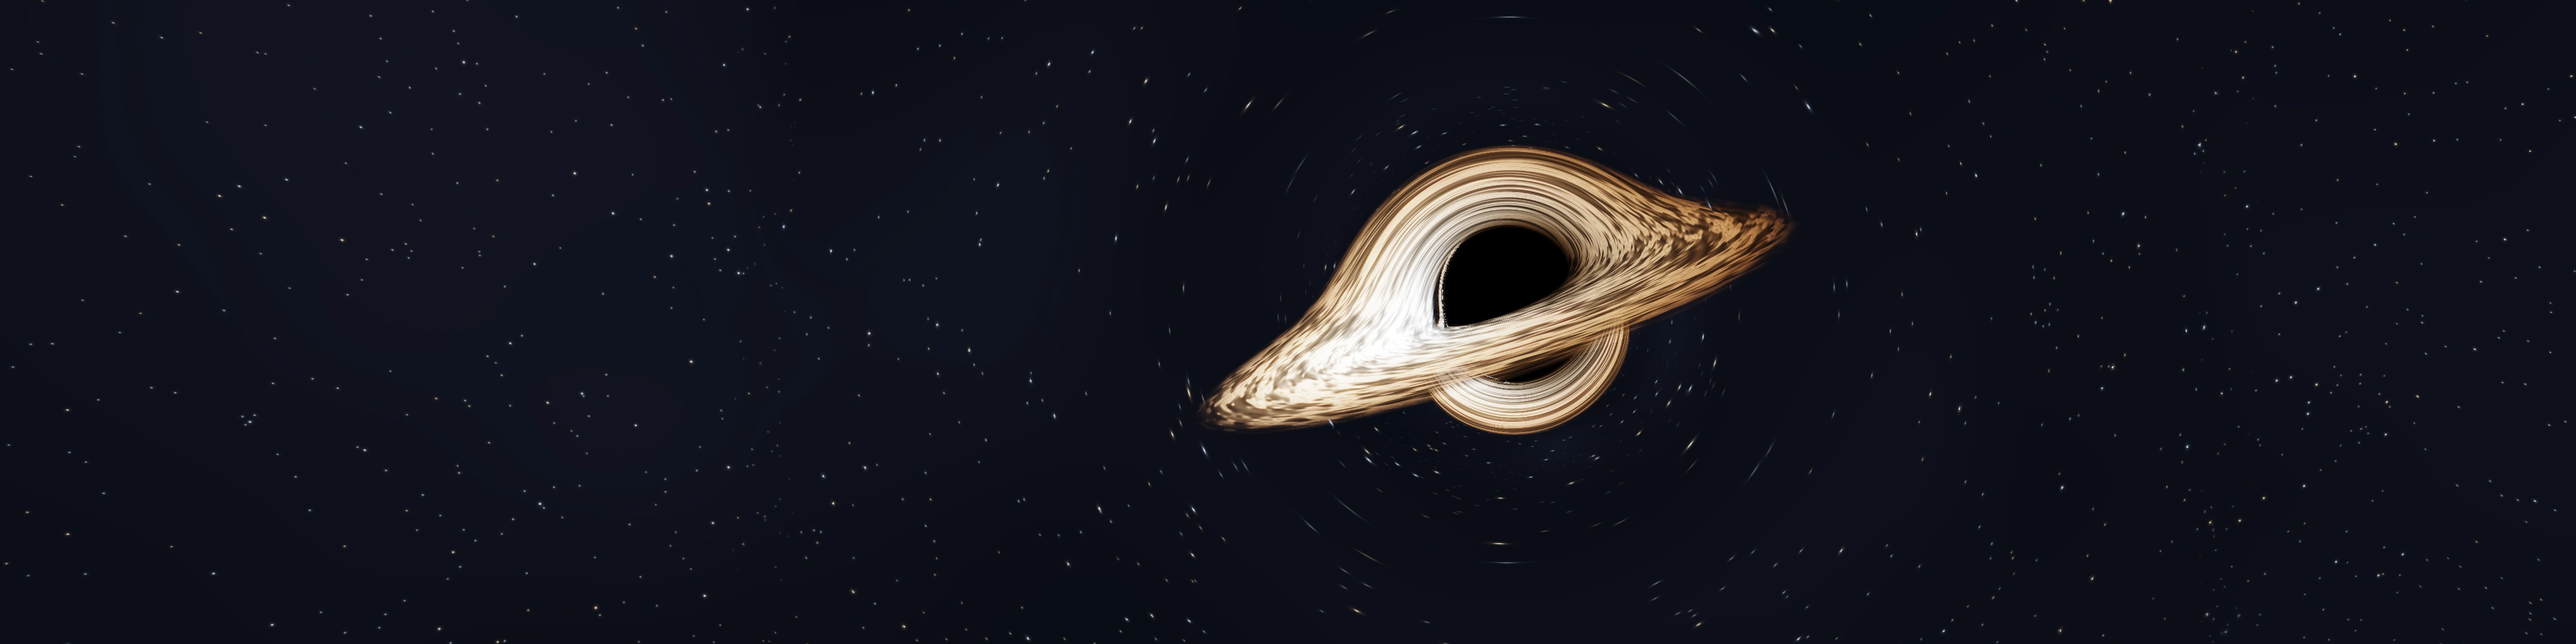
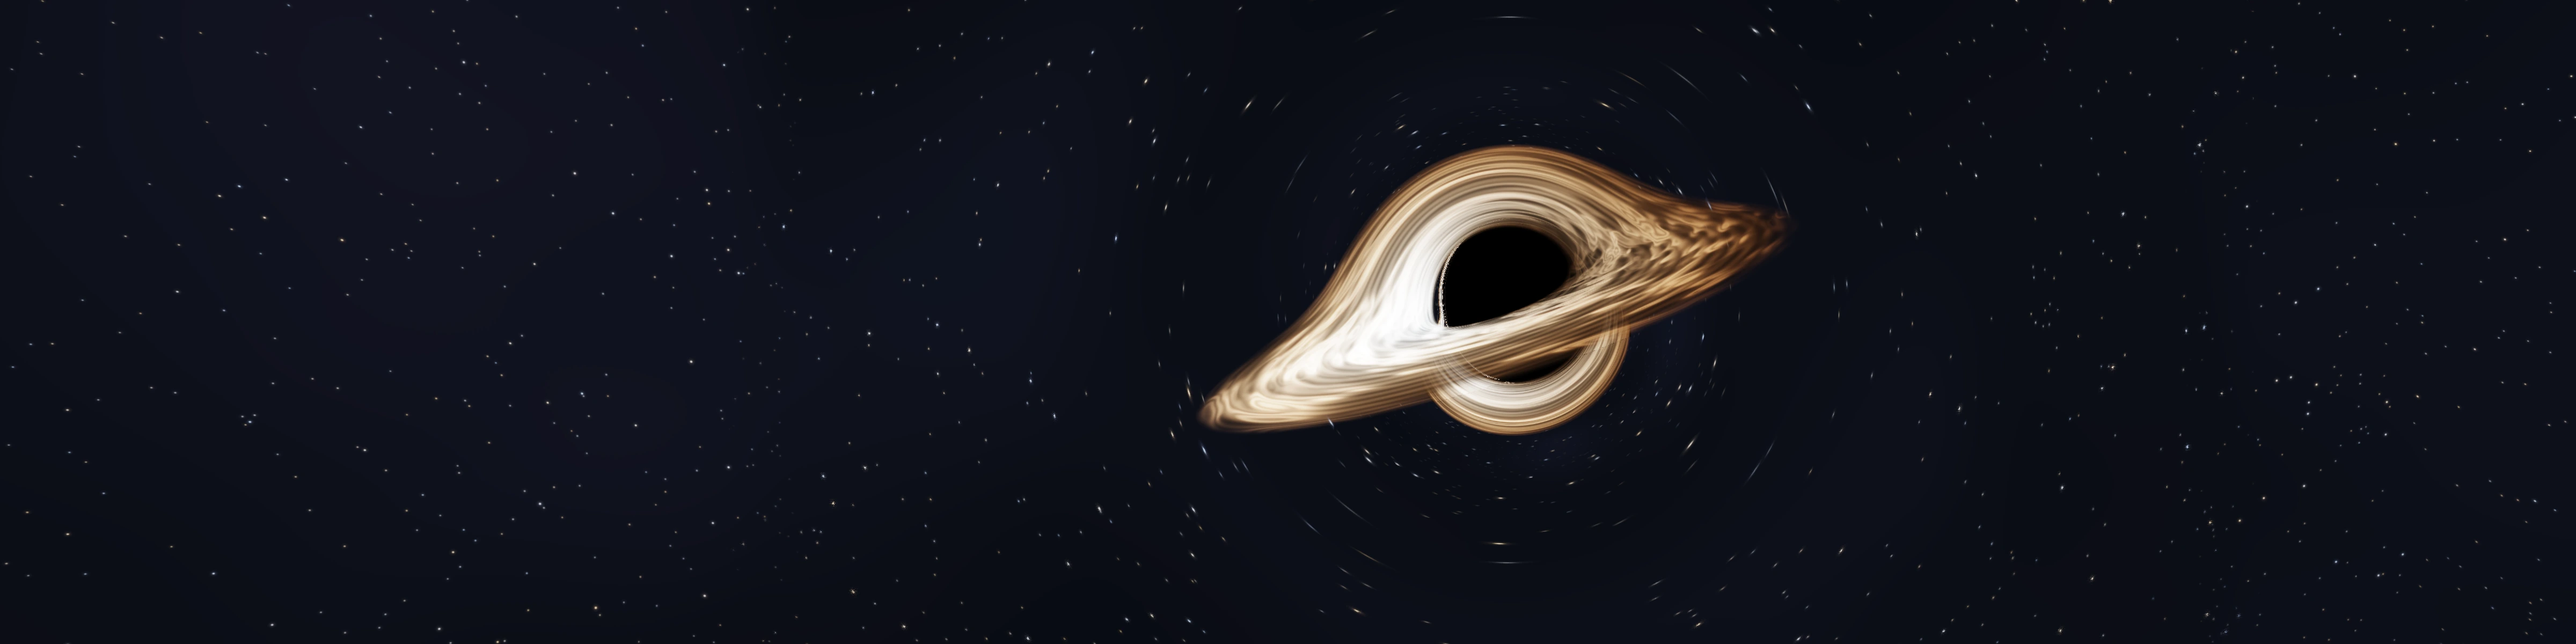
Fix disk advection direction and bound texture shear over time

Changed region(s): [[0.4688, 0.2158, 0.7188, 0.6783]]

diff --git a/tests/black-hole-dynamics.html b/tests/black-hole-dynamics.html
@@ -1,0 +1,182 @@
+<!doctype html>
+<html lang="en"><meta charset="utf-8">
+<title>Disk characteristic GLSL regression</title>
+<style>
+body{max-width:920px;margin:36px auto;padding:0 20px;background:#111827;color:#e5e7eb;font:15px/1.5 system-ui}
+button{padding:10px 18px;background:#38bdf8;color:#082f49;border:0;border-radius:6px;font-weight:700;cursor:pointer}
+button:disabled{opacity:.5}pre{white-space:pre-wrap;overflow-wrap:anywhere;background:#1f2937;padding:18px;border-radius:8px}
+[data-state=pass]{color:#86efac}[data-state=fail]{color:#fca5a5}canvas{display:none}small{color:#9ca3af}
+</style>
+<h1>Disk characteristic regression</h1>
+<p>Compiles the production <code>diskBirthCoordinates</code> GLSL helper and reads its floating-point GPU output. Expected motion comes from independent double-precision RK4 trajectories.</p>
+<button id="run">Run GPU regression</button>
+<p id="status" data-state="idle">Ready. Shader URLs are relative to the server root; use <code>?base=/path/</code> to change that.</p>
+<pre id="results">No tests run.</pre>
+<small>Read-only diagnostic. No website source is modified. The three fetched production files and their combined SHA-256 identify the implementation tested.</small>
+<canvas id="gpu" width="1" height="1"></canvas>
+<script>
+'use strict';
+const statusNode=document.querySelector('#status'), resultNode=document.querySelector('#results');
+const button=document.querySelector('#run');
+function check(condition,message){if(!condition)throw new Error(message);}
+function functionSource(source,name){
+  const match=new RegExp('(?:float|vec[234])\\s+'+name+'\\s*\\(').exec(source);
+  check(match,'Production function missing: '+name);
+  const start=source.indexOf('{',match.index);let depth=1,end=start+1;
+  while(end<source.length&&depth){if(source[end]==='{')depth++;if(source[end]==='}')depth--;end++;}
+  check(depth===0,'Unbalanced production helper '+name);
+  return source.slice(match.index,end);
+}
+function constantSource(source,name){
+  const match=new RegExp('const\\s+float\\s+'+name+'\\s*=\\s*([^;]+);').exec(source);
+  check(match,'Production constant missing: '+name);
+  const value=Number(match[1]);check(Number.isFinite(value),'Nonliteral constant '+name);
+  return {source:match[0],value};
+}
+const wrap=angle=>Math.atan2(Math.sin(angle),Math.cos(angle));
+
+// Independent expected dynamics in source coordinates. This advances a
+// particle forward, rather than duplicating the shader's inverse quadrature.
+function advanceRK4(r,theta,duration,spin,inflow){
+  const omega=x=>1/(Math.sqrt(2)*x**1.5+spin);
+  const count=Math.max(1,Math.ceil(duration/.01)),h=duration/count;
+  for(let i=0;i<count;i++){
+    const k1=omega(r), k2=omega(r-.5*h*inflow);
+    const k3=omega(r-.5*h*inflow), k4=omega(r-h*inflow);
+    theta+=h*(k1+2*k2+2*k3+k4)/6;
+    r-=h*inflow;
+  }
+  return [r,theta];
+}
+
+button.addEventListener('click',async()=>{
+  button.disabled=true;statusNode.dataset.state='running';statusNode.textContent='Fetching and compiling production GLSL…';
+  window.regressionResult=null;const started=performance.now();let gl,program,texture,framebuffer,vao;
+  const metrics={phaseSamples:0,velocitySamples:0,renewalSamples:0,maxBirthRadiusError:0,
+    maxBirthAzimuthErrorRad:0,maxOmegaRelativeError:0,maxCharacteristicSpeedRelativeError:0,
+    minRecoveredAngularVelocity:Infinity,maxComplementWeightError:0,maxRenewalJump:0,maxRenewalSlope:0};
+  try{
+    const base=new URL(new URLSearchParams(location.search).get('base')||'/',location.href);
+    const paths=['assets/shaders/npgs-render.frag','assets/js/academic-black-hole.js','assets/shaders/npgs-emission.glsl'];
+    const urls=paths.map(path=>new URL(path,base).href);
+    const sources=await Promise.all(urls.map(async url=>{
+      const response=await fetch(url,{cache:'no-store'});check(response.ok,'Fetch failed '+response.status+': '+url);return response.text();
+    }));
+    const [render,scene,emission]=sources;
+    const spin=constantSource(scene,'PHYSICAL_A'),inflow=constantSource(render,'INFLOW_SPEED');
+    const lifetime=constantSource(render,'FEATURE_LIFETIME'),pi=constantSource(emission,'kPi');
+    check(lifetime.value>1&&inflow.value>0,'Expected a positive lifetime and inward drift.');
+    const diskTexture=functionSource(render,'diskTexture');
+    const renewal=/float\s+age\s*=[^;]+;\s*float\s+weight\s*=[^;]+;/.exec(diskTexture);
+    check(renewal,'Production renewal-weight statements not found.');
+    const helpers=[spin.source,inflow.source,lifetime.source,pi.source,
+      functionSource(render,'diskOmega'),functionSource(render,'diskBirthCoordinates')].join('\n');
+    const hash=await crypto.subtle.digest('SHA-256',new TextEncoder().encode(sources.join('\n')));
+    metrics.productionSHA256=Array.from(new Uint8Array(hash),x=>x.toString(16).padStart(2,'0')).join('');
+    metrics.sourceURLs=urls;metrics.spin=spin.value;metrics.inflow=inflow.value;metrics.lifetime=lifetime.value;
+    gl=document.querySelector('#gpu').getContext('webgl2',{antialias:false,depth:false,stencil:false});
+    check(gl,'WebGL2 unavailable.');check(gl.getExtension('EXT_color_buffer_float'),'EXT_color_buffer_float unavailable.');
+    check(gl.getShaderPrecisionFormat(gl.FRAGMENT_SHADER,gl.HIGH_FLOAT).precision>=23,'Fragment highp is below float32 precision.');
+    function compile(type,text){
+      const shader=gl.createShader(type);gl.shaderSource(shader,text);gl.compileShader(shader);
+      check(gl.getShaderParameter(shader,gl.COMPILE_STATUS),'GLSL compile failed:\n'+gl.getShaderInfoLog(shader));return shader;
+    }
+    const vertex=compile(gl.VERTEX_SHADER,`#version 300 es
+      void main(){vec2 p=vec2(float((gl_VertexID<<1)&2),float(gl_VertexID&2));gl_Position=vec4(p*2.0-1.0,0.0,1.0);}`);
+    const fragment=compile(gl.FRAGMENT_SHADER,`#version 300 es
+      precision highp float;precision highp int;
+      uniform vec4 uInput;layout(location=0) out vec4 outputData;
+      ${helpers}
+      void main(){float time=uInput.w;${renewal[0]}
+        vec2 birth=diskBirthCoordinates(uInput.x,uInput.y,uInput.z);
+        outputData=vec4(birth,diskOmega(uInput.x),weight);}`);
+    program=gl.createProgram();gl.attachShader(program,vertex);gl.attachShader(program,fragment);gl.linkProgram(program);
+    check(gl.getProgramParameter(program,gl.LINK_STATUS),'GLSL link failed:\n'+gl.getProgramInfoLog(program));
+    gl.deleteShader(vertex);gl.deleteShader(fragment);gl.useProgram(program);
+    vao=gl.createVertexArray();gl.bindVertexArray(vao);
+    texture=gl.createTexture();gl.bindTexture(gl.TEXTURE_2D,texture);
+    gl.texParameteri(gl.TEXTURE_2D,gl.TEXTURE_MIN_FILTER,gl.NEAREST);gl.texParameteri(gl.TEXTURE_2D,gl.TEXTURE_MAG_FILTER,gl.NEAREST);
+    gl.texImage2D(gl.TEXTURE_2D,0,gl.RGBA32F,1,1,0,gl.RGBA,gl.FLOAT,null);
+    framebuffer=gl.createFramebuffer();gl.bindFramebuffer(gl.FRAMEBUFFER,framebuffer);
+    gl.framebufferTexture2D(gl.FRAMEBUFFER,gl.COLOR_ATTACHMENT0,gl.TEXTURE_2D,texture,0);
+    check(gl.checkFramebufferStatus(gl.FRAMEBUFFER)===gl.FRAMEBUFFER_COMPLETE,'RGBA32F framebuffer incomplete.');
+    gl.viewport(0,0,1,1);const input=gl.getUniformLocation(program,'uInput');const output=new Float32Array(4);
+    function sample(r,theta,age,time=0){
+      gl.uniform4f(input,r,theta,age,time);gl.drawArrays(gl.TRIANGLES,0,3);
+      gl.readPixels(0,0,1,1,gl.RGBA,gl.FLOAT,output);
+      check(Array.from(output).every(Number.isFinite),'GPU returned nonfinite data.');return Array.from(output);
+    }
+    const radii=[1.29,1.35,1.5,2,3,4,6,9];
+    const angles=[-Math.PI+.0001,-Math.PI/2,-.0001,.0001,Math.PI/2,Math.PI-.0001];
+    const ages=[0,.25,6,12,24,36,47.5,48].map(age=>age/48*lifetime.value);
+    const referenceOmega=r=>1/(Math.sqrt(2)*r**1.5+spin.value);
+    for(const radius of radii){
+      statusNode.textContent='Checking forward trajectories and recovered birth coordinates at r='+radius+'…';
+      await new Promise(requestAnimationFrame);
+      for(const age of ages){
+        const birthRadius=radius+inflow.value*age;
+        const advanced=advanceRK4(birthRadius,0,age,spin.value,inflow.value);
+        for(const theta0 of angles){
+          const actual=sample(advanced[0],wrap(theta0+advanced[1]),age);
+          metrics.maxBirthRadiusError=Math.max(metrics.maxBirthRadiusError,Math.abs(actual[0]-birthRadius));
+          const error=Math.abs(wrap(actual[1]-theta0));
+          if(error>metrics.maxBirthAzimuthErrorRad){metrics.maxBirthAzimuthErrorRad=error;metrics.worstPhaseCase={radius,theta0,age};}
+          metrics.maxOmegaRelativeError=Math.max(metrics.maxOmegaRelativeError,Math.abs(actual[2]/referenceOmega(radius)-1));
+          check(actual[2]>0,'Production orbital frequency is not prograde.');metrics.phaseSamples++;
+        }
+      }
+      // Invert the ACTUAL GPU characteristic to infer its material angular
+      // velocity, using centered samples along inward radial motion.
+      const dt=.1;
+      for(const age of [1,12,24,36,lifetime.value-.2]){
+        for(const theta of [-Math.PI/2,Math.PI/2]){
+          const before=sample(radius+inflow.value*dt,theta,age-dt);
+          const after=sample(radius-inflow.value*dt,theta,age+dt);
+          const recoveredOmega=-(after[1]-before[1])/(2*dt);
+          metrics.minRecoveredAngularVelocity=Math.min(metrics.minRecoveredAngularVelocity,recoveredOmega);
+          metrics.maxCharacteristicSpeedRelativeError=Math.max(metrics.maxCharacteristicSpeedRelativeError,
+            Math.abs(recoveredOmega/referenceOmega(radius)-1));
+          check(recoveredOmega>0,'GPU characteristic reverses rotation at r='+radius+', age='+age);
+          metrics.velocitySamples++;
+        }
+      }
+    }
+    for(const time of [-96,-48,-24,-.1,0,.1,12,24,47.9,48,48.1,120,3600,86400]){
+      const a=sample(4,0,0,time)[3],b=sample(4,0,0,time+lifetime.value/2)[3];
+      metrics.maxComplementWeightError=Math.max(metrics.maxComplementWeightError,Math.abs(a+b-1));
+      check(a>=-1e-6&&a<=1.000001,'Renewal weight outside [0,1].');metrics.renewalSamples+=2;
+    }
+    for(const boundary of [-lifetime.value,0,lifetime.value/2,lifetime.value]){
+      const epsilon=.01;
+      const left=sample(4,0,0,boundary-epsilon)[3],middle=sample(4,0,0,boundary)[3],right=sample(4,0,0,boundary+epsilon)[3];
+      metrics.maxRenewalJump=Math.max(metrics.maxRenewalJump,Math.abs(right-middle),Math.abs(left-middle));
+      metrics.maxRenewalSlope=Math.max(metrics.maxRenewalSlope,Math.abs((right-left)/(2*epsilon)));
+      metrics.renewalSamples+=3;
+    }
+    check(gl.getError()===gl.NO_ERROR,'WebGL error occurred during readback.');
+    // The 5-point composite Simpson rule has a bounded truncation error.
+    // Independent double-precision estimates put the worst speed error near
+    // r=1.29, age=48 at about 0.032%; allow <0.1% including GPU float32 error.
+    const tolerances={birthRadius:2e-5,birthAzimuthRad:.002,omegaRelative:2e-5,
+      characteristicSpeedRelative:.001,complementWeight:2e-5,renewalJump:2e-6,renewalSlope:2e-5};
+    metrics.tolerances=tolerances;
+    check(metrics.maxBirthRadiusError<tolerances.birthRadius,'Birth radius is not conserved.');
+    check(metrics.maxBirthAzimuthErrorRad<tolerances.birthAzimuthRad,'Recovered birth azimuth exceeds bounded quadrature tolerance.');
+    check(metrics.maxOmegaRelativeError<tolerances.omegaRelative,'Production Omega differs from independent Kerr reference.');
+    check(metrics.maxCharacteristicSpeedRelativeError<tolerances.characteristicSpeedRelative,'Characteristic angular speed differs by >=0.1%.');
+    check(metrics.maxComplementWeightError<tolerances.complementWeight,'Renewal windows do not sum to one.');
+    check(metrics.maxRenewalJump<tolerances.renewalJump&&metrics.maxRenewalSlope<tolerances.renewalSlope,'Renewal boundary is not smooth.');
+    metrics.elapsedMs=performance.now()-started;
+    window.regressionResult={status:'PASS',metrics};statusNode.dataset.state='pass';
+    statusNode.textContent='PASS — actual GLSL preserves birth coordinates and prograde motion; renewal windows are smooth.';
+  }catch(error){
+    metrics.elapsedMs=performance.now()-started;
+    window.regressionResult={status:'FAIL',error:String(error.stack||error),metrics};
+    statusNode.dataset.state='fail';statusNode.textContent='FAIL — '+error.message;
+  }finally{
+    resultNode.textContent=JSON.stringify(window.regressionResult,null,2);button.disabled=false;
+    if(gl){if(framebuffer)gl.deleteFramebuffer(framebuffer);if(texture)gl.deleteTexture(texture);if(program)gl.deleteProgram(program);if(vao)gl.deleteVertexArray(vao);}
+  }
+});
+</script>
+</html>

diff --git a/academics.html b/academics.html
@@ -9,7 +9,7 @@
   <title>学术集 | CMC</title>
   <link rel="stylesheet" href="/assets/css/style.css">
   <link rel="stylesheet" href="/assets/css/site-ui.css?v=20260911-shared-ui">
-  <link rel="stylesheet" href="/assets/css/academics.css?v=20261003-framing2">
+  <link rel="stylesheet" href="/assets/css/academics.css?v=20261003-flow2">
   <link rel="stylesheet" href="/assets/css/liquid-glass.css?v=20260911-glass1">
 </head>
 <body class="ui-page academic-cosmos glass-ui">
@@ -66,7 +66,7 @@
 
   <footer class="site-footer"><div class="container footer-wrap"><span>© <span id="year"></span> CMC</span></div></footer>
   <script src="/assets/js/main.js"></script>
-  <script src="/assets/js/academic-black-hole.js?v=20261003-framing2" defer></script>
+  <script src="/assets/js/academic-black-hole.js?v=20261003-flow2" defer></script>
   <script src="/assets/js/site-ui.js?v=20260911-shared-ui" defer></script>
   <script src="/assets/js/liquid-glass.js?v=20260911-glass1" defer></script>
 </body>

diff --git a/assets/css/academics.css b/assets/css/academics.css
@@ -22,7 +22,7 @@ body.academic-cosmos{
   overflow:hidden;
   pointer-events:none;
   /* Match the renderer's height-based projection and the same image anchor. */
-  background:#030710 url("../images/academic-npgs-desktop.webp?v=20261003-framing2") var(--cosmos-center-x) var(--cosmos-center-y) / auto 100% no-repeat;
+  background:#030710 url("../images/academic-npgs-desktop.webp?v=20261003-flow2") var(--cosmos-center-x) var(--cosmos-center-y) / auto 100% no-repeat;
 }
 
 .academic-cosmos .cosmos-bg canvas{
@@ -167,7 +167,7 @@ body.academic-cosmos{
     --cosmos-center-x:52%;
     --cosmos-center-y:39%;
     --cosmos-view-span:36;
-    background-image:url("../images/academic-npgs-mobile.webp?v=20261003-framing2");
+    background-image:url("../images/academic-npgs-mobile.webp?v=20261003-flow2");
   }
 
   .academic-cosmos .cosmos-bg::after{

diff --git a/assets/js/academic-black-hole.js b/assets/js/academic-black-hole.js
@@ -6,7 +6,7 @@
   'use strict';
   const canvas = document.getElementById('academic-black-hole');
   if (!canvas) return;
-  const VERSION = '20261003-framing2';
+  const VERSION = '20261003-flow2';
   const baseUrl = new URL('../shaders/', document.currentScript.src);
   const reducedMotion = matchMedia('(prefers-reduced-motion: reduce)');
   const mobile = matchMedia('(max-width: 820px), (pointer: coarse)');
